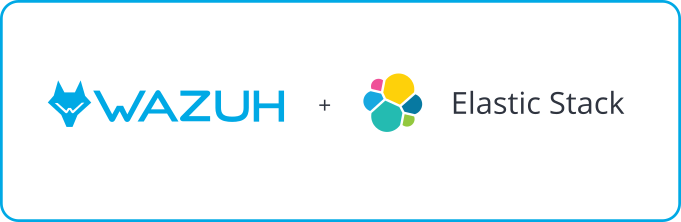
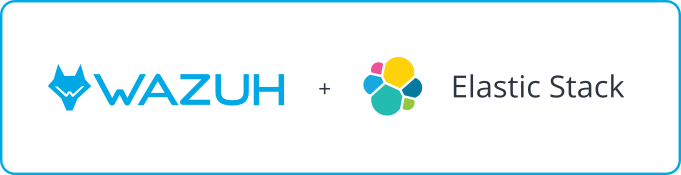
Splitted Wazuh Stack flavors in two columns

diff --git a/source/_static/css/style.css b/source/_static/css/style.css
@@ -1448,6 +1448,31 @@ footer a:focus,
   padding: 0;
 }
 
+.two-columns {
+  display: grid;
+  grid-template-columns: repeat(2, 1fr);
+  grid-gap: 2rem;
+}
+
+#stack-flavors.two-columns {
+  margin-bottom: 2rem;
+}
+
+#stack-flavors.two-columns .left-column,
+#flavors-images.two-columns .left-column,
+#stack-flavors.two-columns .right-column,
+#flavors-images.two-columns .right-column {
+  padding-left: 0;
+}
+
+#flavors-images.two-columns {
+  align-items: end;
+}
+
+#flavors-images.two-columns img {
+  width: 70% !important;
+}
+
 #deployment-types.custom-tabs .sphinx-tabs .sphinx-menu {
   margin-bottom: 2rem;
   border-bottom: none !important;

diff --git a/source/installation-guide/index.rst b/source/installation-guide/index.rst
@@ -29,14 +29,41 @@ Wazuh Stack flavors
 
 The user can select the flavor of Wazuh Stack that better suits their environment:
 
-- Open Distro for Elasticsearch:  Is an Apache 2.0-licensed distribution of Elasticsearch     enhanced with enterprise security, alerting, SQL support, automated index management, deep performance analysis, among other features. Open Distro for Elasticsearch is 100% open source and community-driven.
+.. raw:: html
 
-- Elastic Stack:  In this installation guide, the basic license option will be used, this includes everything in the Open Source under Apache 2.0 version plus some extra capabilities like core Elastic Stack Security features, Kibana alerting and more.
+  <div class="two-columns" id="stack-flavors">
 
-       
-.. thumbnail:: ../images/installation/Wazuh_Stack_flavors.png
-       :align: center
-       :width: 100%
+.. container:: left-column
+
+  Open Distro for Elasticsearch:  Is an Apache 2.0-licensed distribution of Elasticsearch     enhanced with enterprise security, alerting, SQL support, automated index management, deep performance analysis, among other features. Open Distro for Elasticsearch is 100% open source and community-driven. 
+
+.. container:: right-column  
+
+  Elastic Stack:  In this installation guide, the basic license option will be used, this includes everything in the Open Source under Apache 2.0 version plus some extra capabilities like core Elastic Stack Security features, Kibana alerting and more.
+
+.. raw:: html
+
+  </div>   
+
+.. raw:: html
+
+  <div class="two-columns" id="flavors-images">
+
+.. container:: left-column
+
+  .. thumbnail:: ../images/installation/Wazuh_Open_Distro.png
+        :align: center
+        :width: 100%  
+
+.. container:: right-column  
+        
+  .. thumbnail:: ../images/installation/Wazuh_Elastic_Stack.png
+        :align: center
+        :width: 100%
+
+.. raw:: html
+
+  </div>        
 
 
 Deployment types
